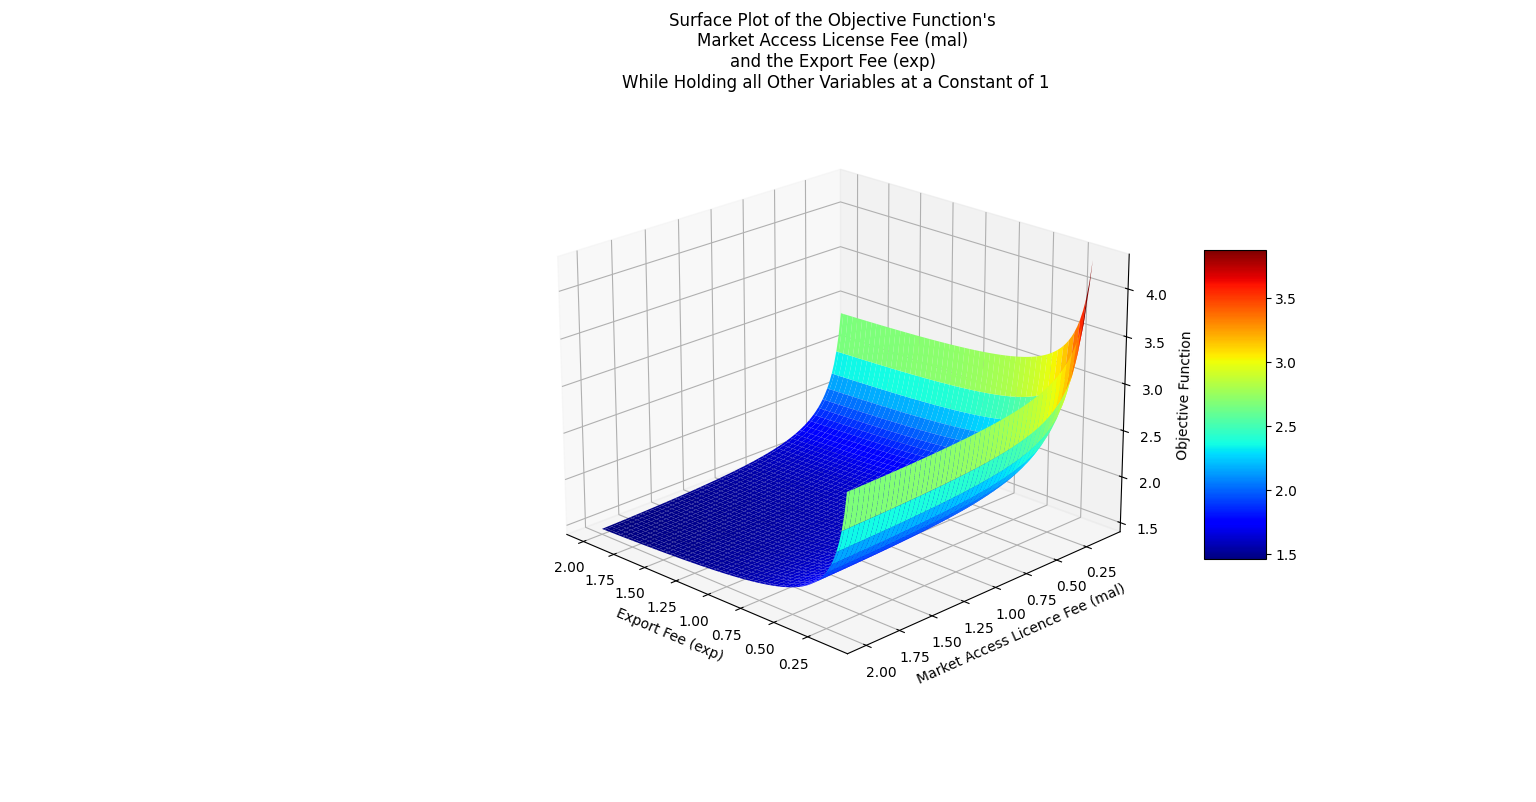
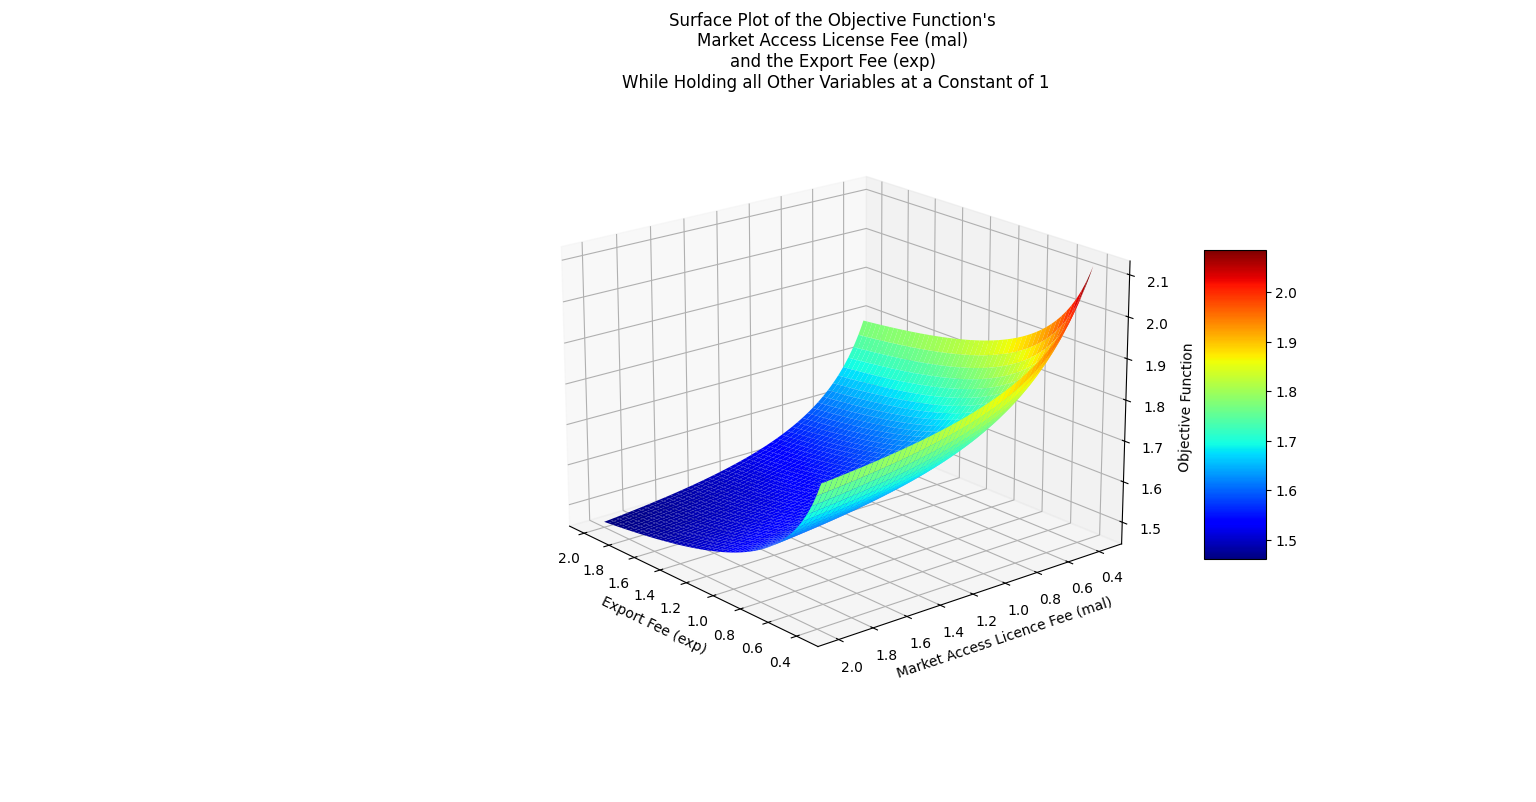
Updated with complete objective function and variables coded in an array

Changed region(s): [[0.3438, 0.2494, 0.7812, 0.8416], [0.8125, 0.5299, 0.8438, 0.5611], [0.8125, 0.3429, 0.8438, 0.3741]]

diff --git a/Subsystem3-Crop-Production/1.Curve-Fitting/visualization.py b/Subsystem3-Crop-Production/1.Curve-Fitting/visualization.py
@@ -15,28 +15,38 @@ import numpy as np
 import matplotlib.pyplot as plt
 from mpl_toolkits.mplot3d import Axes3D
 
-# Define the function for the objective
-def objective_function(exp, mal, r=1, amp_w = 1, t_w = 1, tp_w = 1, phase_w = 1, vert_w = 1, acre = 1, c_w = 1, qe=1, ce = 1, qd = 1, qs = 1, tal = 1, vert = 1):
+# Objective Function ----
+def objective_function(exp, mal):
+    # Initialize x with ones for other variables, and set the last two to exp and mal
+    x = np.ones(20)
+    x[18] = exp  # exp
+    x[19] = mal  # mal
     return (
-        0.2350747 * r ** (-1.0)
-        + 0.4804318 * ((
-            ((amp_w * np.sin((2 * np.pi) / t_w * (tp_w - phase_w)) + vert_w) * acre * c_w) ** 0.4) * 
-            (qe * acre * ce) ** 0.6 )
-        + 0.2811869 * qd
-        - 0.9963252 * qs
-        - 0.1230044 * (1)
-        + 0.2777817 * tal ** (-1.0)
-        + 1.1544897 * vert ** (-1.0)
-        + 0.1500959 * exp ** (-1.0)
-        + 0.1491099 * mal ** (-1.0)
+        0.2350747 * x[0] ** (-1.0)
+        + 0.4804318 * (
+            (((x[1] * np.sin((2 * np.pi) / x[2] * (x[3] - x[4])) + x[5]) * x[6] * x[7]) ** 0.4) * 
+            (x[8] * x[6] * x[9]) ** 0.6 
+        )
+        + 0.2811869 * x[10]
+        - 0.9963252 * x[11]
+        - 0.1230044 * ((x[12] * np.sin((2 * np.pi) / x[14] * (x[14] - x[15])) + x[16]) * x[10])
+        + 0.2777817 * x[17] ** (-1.0)
+        + 1.1544897 * x[16] ** (-1.0)
+        + 0.1500959 * x[18] ** (-1.0)
+        + 0.1491099 * x[19] ** (-1.0)
         + 0.0004785
     )
 
 # Create the grid of values
-exp_values = np.linspace(0.1, 2, 100)  # Avoid division by zero by starting from 0.1
-mal_values = np.linspace(0.1, 2, 100)  # Avoid division by zero by starting from 0.1
+exp_values = np.linspace(0.37, 2, 148)  # Avoid division by zero by starting from USD 0.37
+mal_values = np.linspace(0.37, 2, 148)  # Avoid division by zero by starting from USD 0.37
 exp_grid, mal_grid = np.meshgrid(exp_values, mal_values)
-z_values = objective_function(exp_grid, mal_grid)
+
+# Vectorize the objective function for element-wise application
+vectorized_objective_function = np.vectorize(objective_function)
+
+# Apply the vectorized function over the grid
+z_values = vectorized_objective_function(exp_grid, mal_grid)
 
 # Plotting the 3D surface plot
 fig = plt.figure(figsize=(14, 9))
